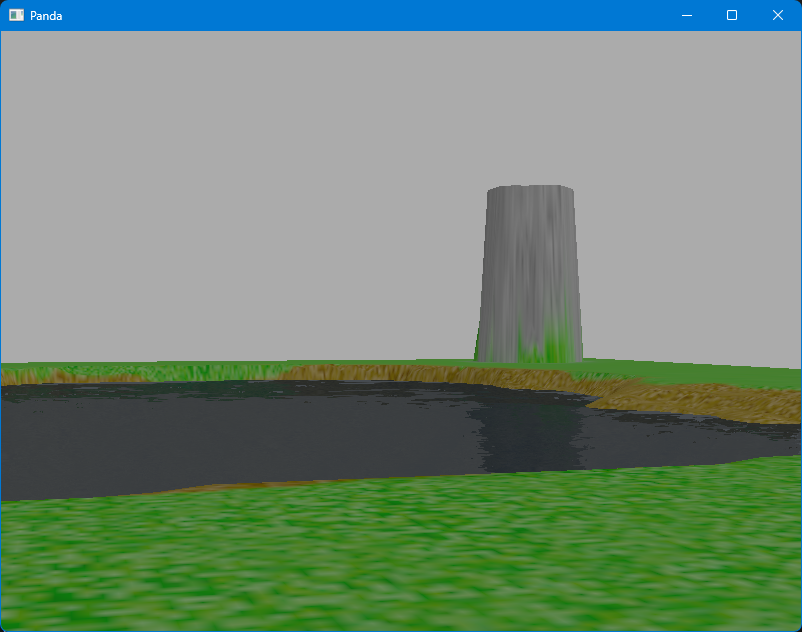
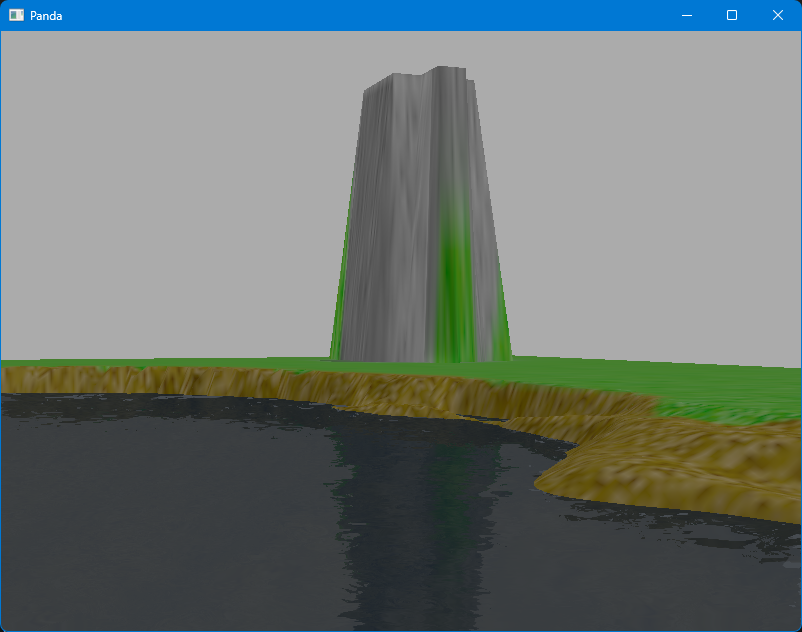
Switch to GeoMipTerrain for PBR terrain lesson 6.

diff --git a/pbr/terrain/06-distortion/main.py b/pbr/terrain/06-distortion/main.py
@@ -2,7 +2,9 @@ from direct.showbase.ShowBase import ShowBase
 from panda3d.core import (
     AmbientLight,
     DirectionalLight,
+    GeoMipTerrain,
     load_prc_file,
+    Material,
     SamplerState,
     Shader,
     TextureStage,
@@ -40,6 +42,14 @@ class TerrainDemo(ShowBase):
         self.sun.set_hpr(45, -45, 0)
         self.render.set_light(self.sun)
 
+        # Create materials
+        terrain_mat = Material("Terrain")
+        terrain_mat.set_base_color(Vec4(0, .5, 0, 1))
+        terrain_mat.set_metallic(0)
+        terrain_mat.set_emission(Vec4(0, 0, 0, 1))
+        terrain_mat.set_roughness(.8)
+        terrain_mat.set_refractive_index(1.5)
+
         # Load textures
         self.grass_tex = self.loader.load_texture("images/Grass.png")
         self.grass_tex.minfilter = SamplerState.FT_linear_mipmap_linear
@@ -62,30 +72,35 @@ class TerrainDemo(ShowBase):
         self.color_mask_tex.magfilter = SamplerState.FT_linear_mipmap_linear
 
         # Load terrain
-        self.terrain = self.loader.load_model("meshes/Terrain.gltf")
-        self.terrain.set_scale(256, 256, 256)
-        self.terrain.set_pos(0, 261, 0)
+        self.terrain = GeoMipTerrain("Terrain")
+        self.terrain.set_heightfield("images/Heightmap.png")
+        self.terrain.set_block_size(32)
+        self.terrain.set_focal_point(self.camera)
 
-        self.terrain.set_shader(self.terrain_shader)
-        self.terrain.set_shader_input("texScale0", Vec2(.1, .1))
-        self.terrain.set_shader_input("texScale1", Vec2(.1, .1))
-        self.terrain.set_shader_input("texScale2", Vec2(.1, .1))
-        self.terrain.set_shader_input("texScale3", Vec2(.1, .1))
+        self.terrain.get_root().set_sz(128)
+        self.terrain.get_root().set_pos(-256, 0, -64)
+        self.terrain.get_root().set_material(terrain_mat)
+
+        self.terrain.get_root().set_shader(self.terrain_shader)
+        self.terrain.get_root().set_shader_input("texScale0", Vec2(.1, .1))
+        self.terrain.get_root().set_shader_input("texScale1", Vec2(.1, .1))
+        self.terrain.get_root().set_shader_input("texScale2", Vec2(.1, .1))
+        self.terrain.get_root().set_shader_input("texScale3", Vec2(.1, .1))
 
         stage0 = TextureStage("Grass")
-        stage0.set_texcoord_name("0")
         stage1 = TextureStage("Dirt")
         stage2 = TextureStage("Rock")
         stage3 = TextureStage("Blank")
         stage4 = TextureStage("ColorMask")
 
-        self.terrain.set_texture(stage0, self.grass_tex)
-        self.terrain.set_texture(stage1, self.dirt_tex)
-        self.terrain.set_texture(stage2, self.rock_tex)
-        self.terrain.set_texture(stage3, self.blank_tex)
-        self.terrain.set_texture(stage4, self.color_mask_tex)
+        self.terrain.get_root().set_texture(stage0, self.grass_tex)
+        self.terrain.get_root().set_texture(stage1, self.dirt_tex)
+        self.terrain.get_root().set_texture(stage2, self.rock_tex)
+        self.terrain.get_root().set_texture(stage3, self.blank_tex)
+        self.terrain.get_root().set_texture(stage4, self.color_mask_tex)
 
-        self.terrain.reparent_to(self.render)
+        self.terrain.generate()
+        self.terrain.get_root().reparent_to(self.render)
 
         # Load water plane
         self.water = WaterPlane(
@@ -93,10 +108,18 @@ class TerrainDemo(ShowBase):
             scale=Vec3(256, 256, 1)
         )
 
+        # Add update task
+        self.task_mgr.add(self.update, "update")
+
         # Configure buffer viewer
         self.bufferViewer.setPosition("ulcorner")
         self.bufferViewer.setCardSize(.5, 0)
         self.accept("v", self.bufferViewer.toggleEnable)
+
+    def update(self, task):
+        # Update terrain
+        self.terrain.update()
+        return task.cont
 
 
 # Entry Point
